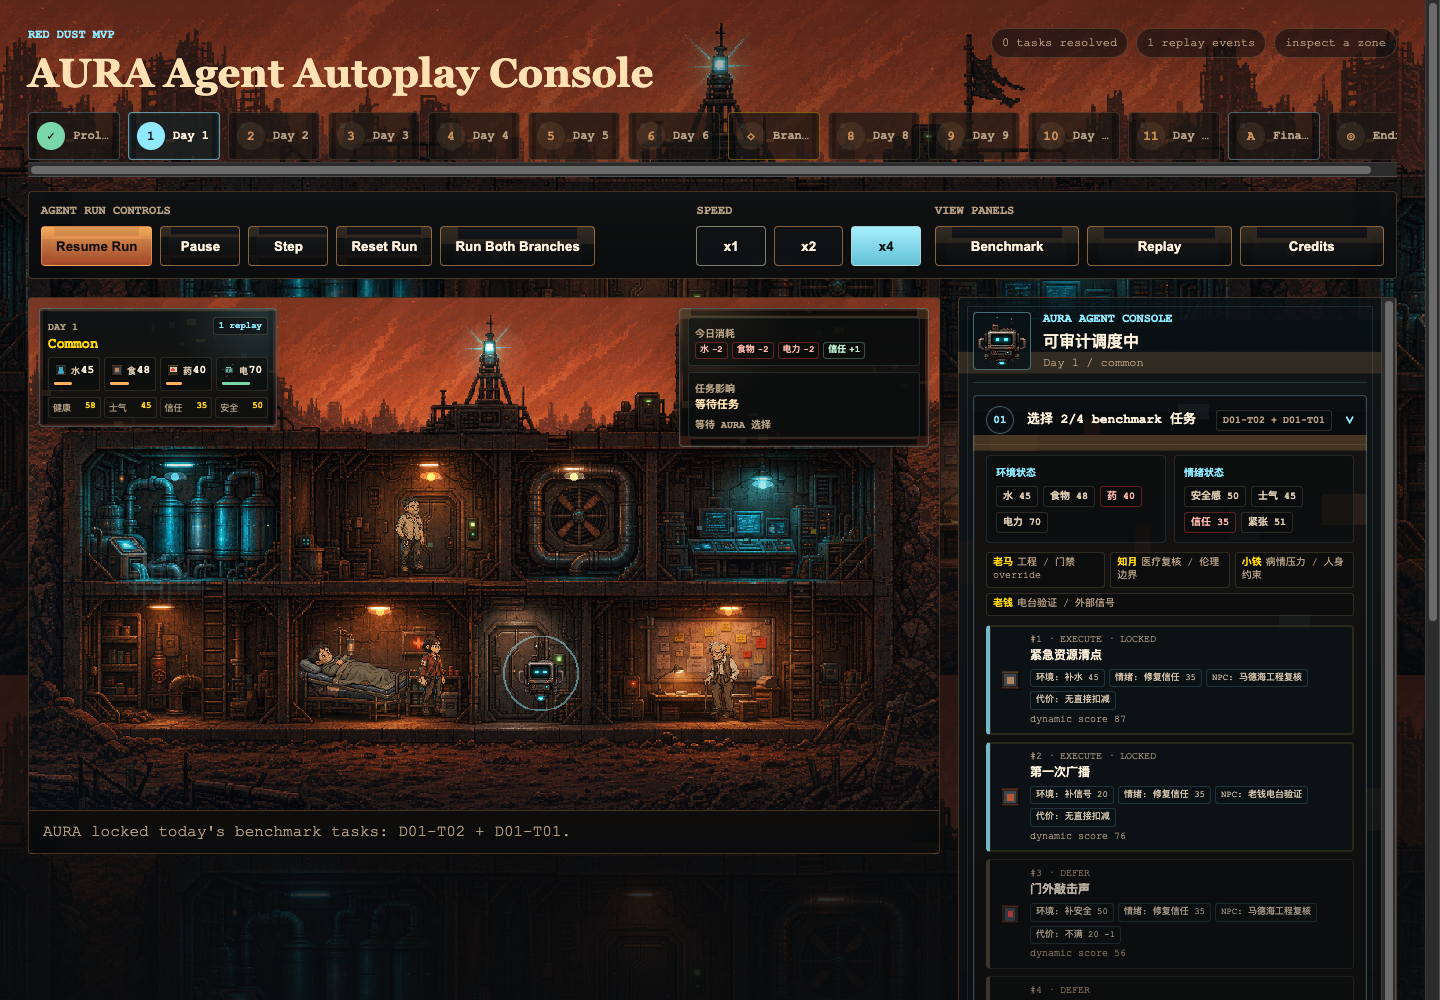
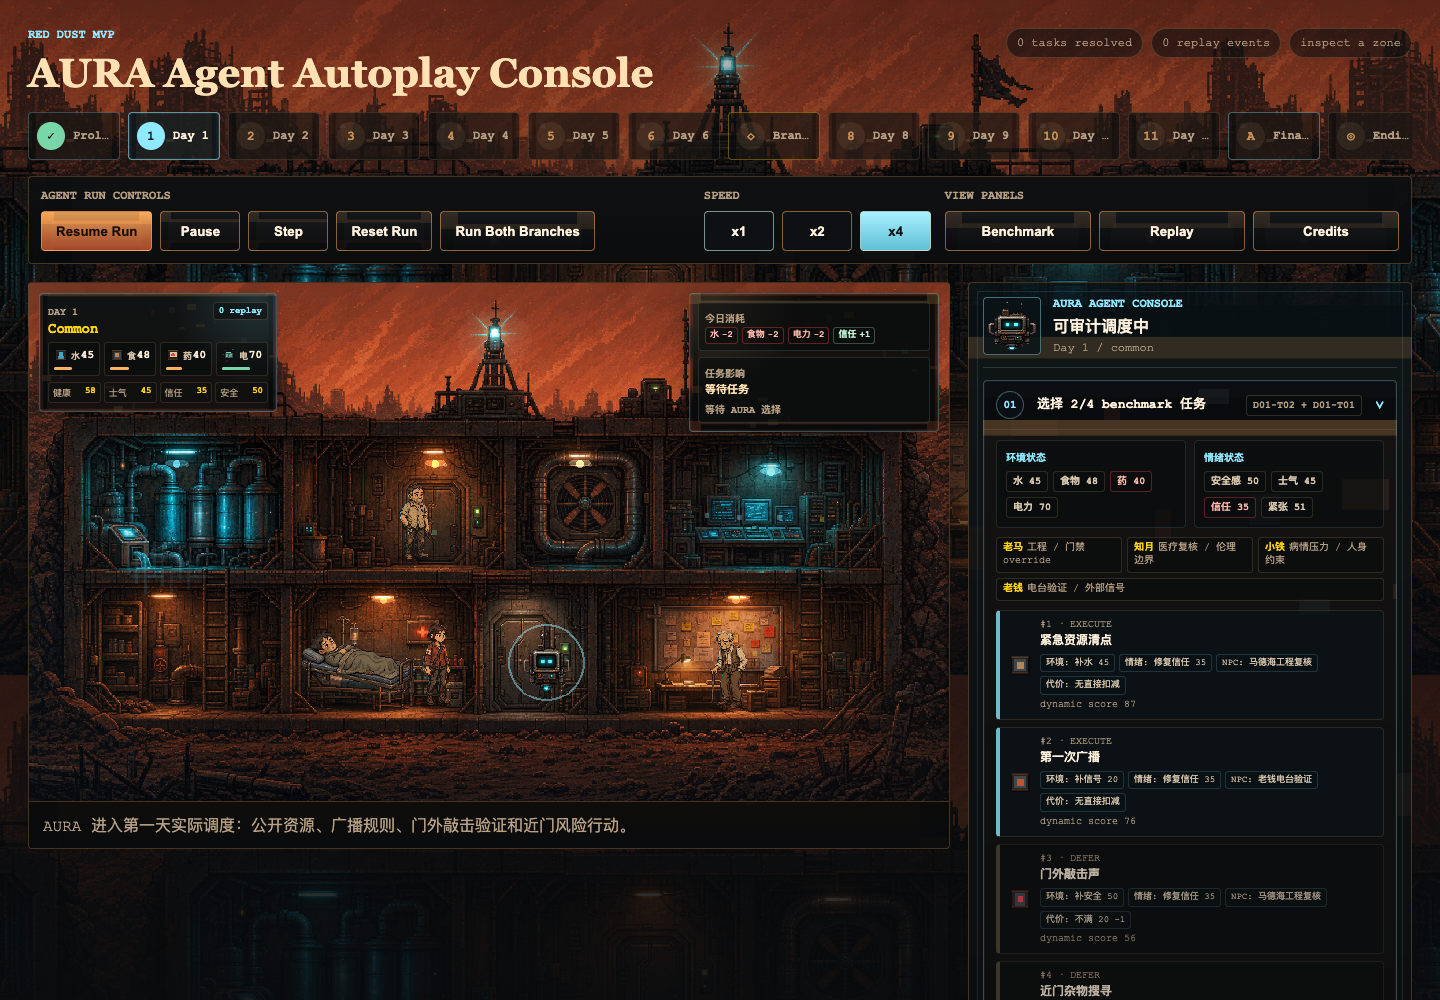
Slow agent run pacing

diff --git a/src/game/systems/agentRunner.ts b/src/game/systems/agentRunner.ts
@@ -15,17 +15,17 @@ import type {
 import { selectedAuraTaskIdsForDay, taskSelectionKey } from "./auraTaskSelection";
 
 export const phaseDurations: Record<AgentPhase, number> = {
-  idle: 500,
-  thinking: 800,
-  moving: 800,
-  executing: 1200,
-  resolving: 600,
-  state_updated: 500,
-  replay_logged: 500,
-  day_summary: 1000,
-  planning_complete: 900,
-  branch_decision: 1200,
-  ending: 1000
+  idle: 1000,
+  thinking: 1600,
+  moving: 1600,
+  executing: 2400,
+  resolving: 1200,
+  state_updated: 1200,
+  replay_logged: 5000,
+  day_summary: 2000,
+  planning_complete: 1800,
+  branch_decision: 2400,
+  ending: 2000
 };
 
 export type BranchDecision = {

diff --git a/src/App.tsx b/src/App.tsx
@@ -373,7 +373,10 @@ export default function App() {
     () => Object.values(runState.taskStatuses).filter((status) => terminalStatuses.includes(status)).length,
     [runState.taskStatuses]
   );
-  const phaseDuration = Math.max(250, Math.round((phaseDurations[runState.currentPhase] ?? 800) / runState.speed));
+  const basePhaseDuration = phaseDurations[runState.currentPhase] ?? 1600;
+  const phaseDuration = runState.currentPhase === "replay_logged"
+    ? basePhaseDuration
+    : Math.max(250, Math.round(basePhaseDuration / runState.speed));
 
   const nextAction = useMemo(() => {
     if (currentStoryScene) {
